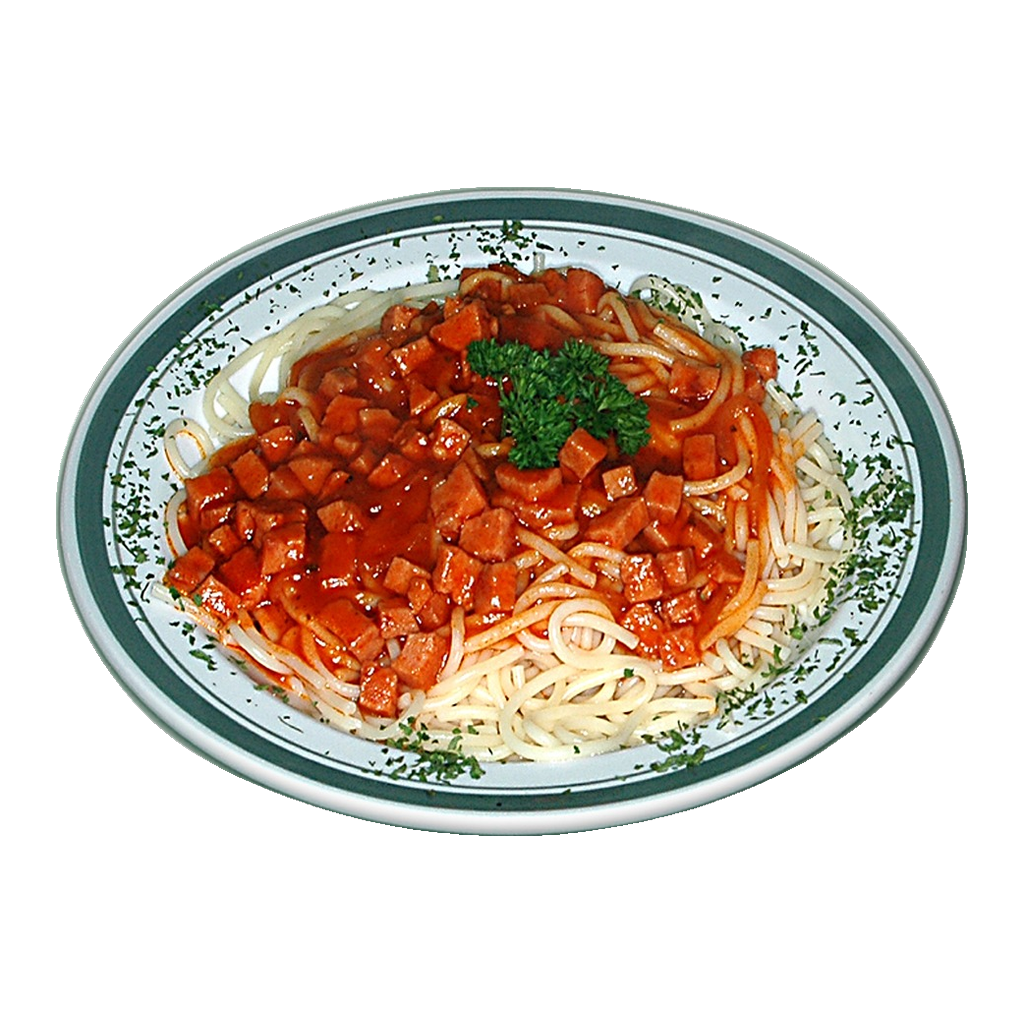
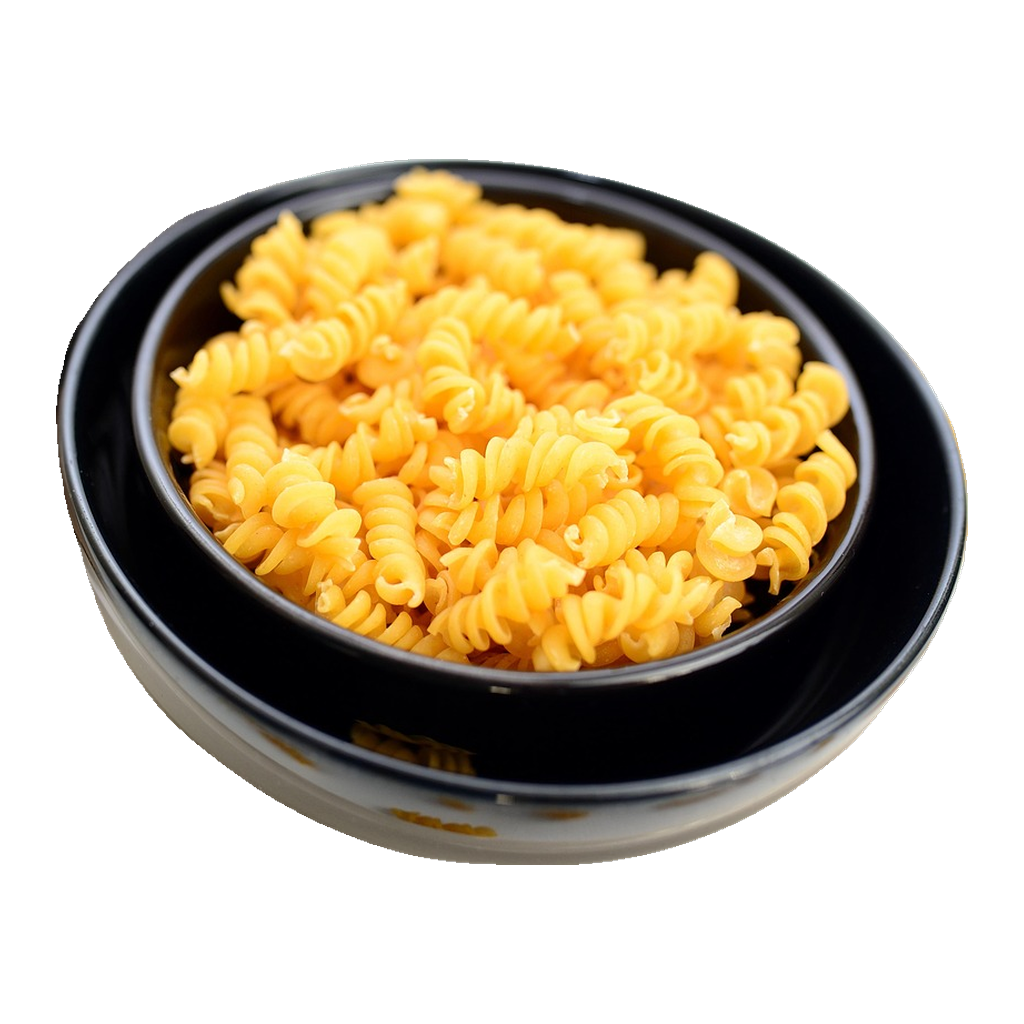
Pasta photo: a bowl of fusilli (Pixabay); version 2.0.13 (27)

diff --git a/assets/content/REAL_PHOTOS.md b/assets/content/REAL_PHOTOS.md
@@ -366,12 +366,12 @@ Attempt folder: `artifacts/food-photos-attempt-01/`. Local technical review only
 ## food.pasta
 
 File: `assets/images/food/pasta_real.png`
-Photo author: eismannhans (Pixabay)
-Source: https://pixabay.com/photos/spaghetti-meal-food-nourishment-53364/
+Photo author: congerdesign (Pixabay)
+Source: https://pixabay.com/photos/fusilli-pasta-food-noodles-6001463/
 Source and adaptation license: Pixabay Content License - https://pixabay.com/service/license-summary/
[2 lines of base64/hex data omitted]
-Changes: One plate of spaghetti with tomato meat sauce and parsley, seen from above. Foreground alpha with rembg U2Net (largest region kept, holes filled, original RGB retained); alpha-bound crop, aspect-preserving Lanczos resize to a 912 px maximum subject extent, centered 1024x1024 RGBA export and 4 px white outer outline (tools/adapt_cutout_photo.py). No generative editing.
[2 lines of base64/hex data omitted]
+Changes: One black bowl filled with cooked fusilli pasta. Foreground alpha with rembg U2Net (largest region kept, holes filled, original RGB retained); alpha-bound crop, aspect-preserving Lanczos resize to a 912 px maximum subject extent, centered 1024x1024 RGBA export and 4 px white outer outline (tools/adapt_cutout_photo.py). No generative editing.
 
 ## food.pizza
 
